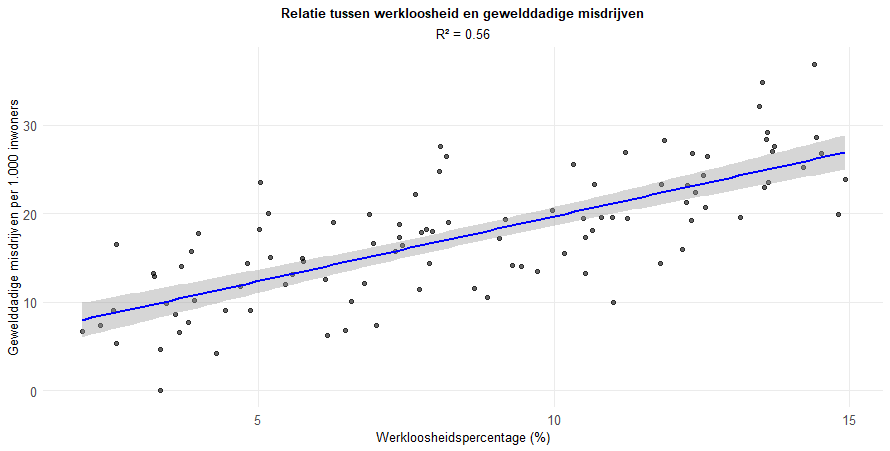
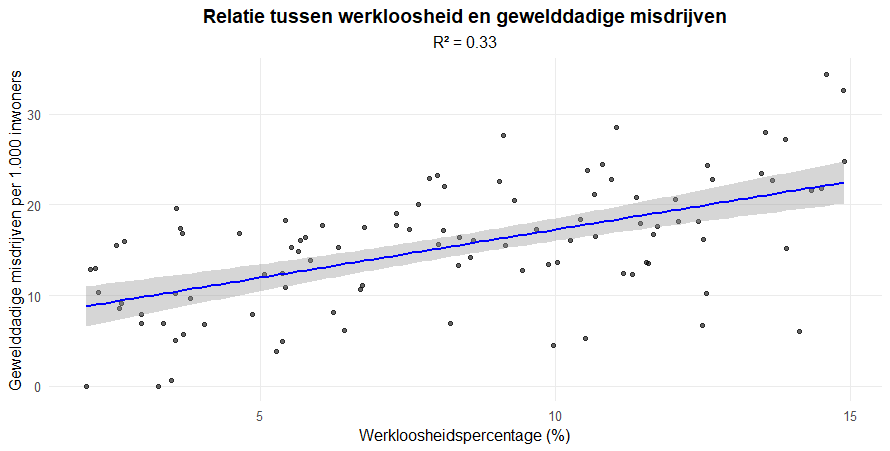
fix: update R² values and corresponding descriptions in scatterplot analysis

diff --git a/Scatterplot of unemployment/description/description.en.md b/Scatterplot of unemployment/description/description.en.md
@@ -1,11 +1,11 @@
-In een scatterplot van werkloosheid (x) versus gewelddadige misdrijven (y) is de regressielijn positief en R² = 0,45. Wat betekent R² = 0,45?
+In een scatterplot van werkloosheid (x) versus gewelddadige misdrijven (y) is de regressielijn positief en R² = 0,33. Wat betekent R² = 0,33?
 
 ![Scatterplot](media/image.png) 
 
-1.	Het model voorspelt 45% van de wijken correct
-2.	45% van de misdrijven wordt veroorzaakt door werkloosheid
+1.	Het model voorspelt 33% van de wijken correct
+2.	33% van de misdrijven wordt veroorzaakt door werkloosheid
 3.	Werkloosheid en misdaad zijn perfect gecorreleerd
-4.	45% van de variantie in gewelddadige misdrijven tussen wijken wordt verklaard door werkloosheid
+4.	33% van de variantie in gewelddadige misdrijven tussen wijken wordt verklaard door werkloosheid
 
 Typ je antwoord als één enkel getal (1-4) om je keuze aan te geven.
 
